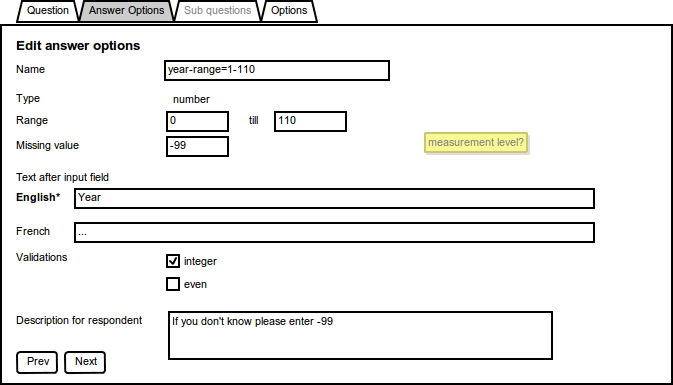
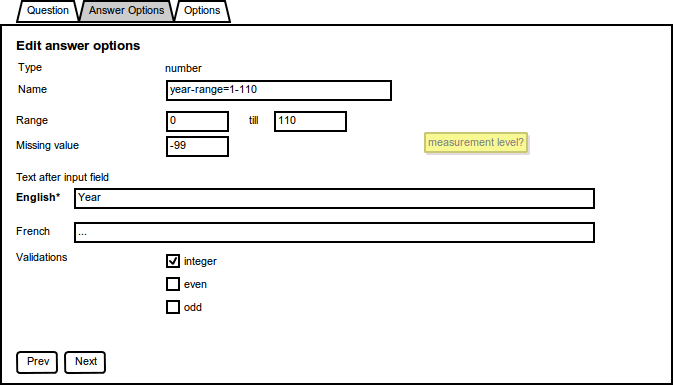
adjusted wireframes after discussion with Rolf en Liesbeth * removed likert, makes it complicated for now, possible own wizard * removed text after answer option * if edit question in preview view question-options tab

diff --git a/wireframes/index_files/story.js b/wireframes/index_files/story.js
@@ -309,7 +309,7 @@ var story = {
      ]
     },
     {
-     "page": 18,
+     "page": 17,
      "rect": [
       72,
       395,
@@ -318,7 +318,7 @@ var story = {
      ]
     },
     {
-     "page": 18,
+     "page": 17,
      "rect": [
       72,
       596,
@@ -327,7 +327,7 @@ var story = {
      ]
     },
     {
-     "page": 18,
+     "page": 17,
      "rect": [
       72,
       238,
@@ -345,6 +345,15 @@ var story = {
      ]
     },
     {
+     "page": 17,
+     "rect": [
+      28,
+      238,
+      64,
+      254
+     ]
+    },
+    {
      "page": 18,
      "rect": [
       48,
@@ -354,9 +363,27 @@ var story = {
      ]
     },
     {
+     "page": 17,
+     "rect": [
+      28,
+      395,
+      64,
+      411
+     ]
+    },
+    {
      "page": 18,
      "rect": [
       48,
+      596,
+      64,
+      612
+     ]
+    },
+    {
+     "page": 17,
+     "rect": [
+      28,
       596,
       64,
       612
@@ -715,20 +742,11 @@ var story = {
      ]
     },
     {
-     "page": 19,
+     "page": 17,
      "rect": [
       174,
       0,
-      261,
-      23
-     ]
-    },
-    {
-     "page": 17,
-     "rect": [
-      261,
-      0,
-      317,
+      230,
       23
      ]
     },
@@ -770,15 +788,6 @@ var story = {
     {
      "page": 17,
      "rect": [
-      261,
-      0,
-      317,
-      23
-     ]
-    },
-    {
-     "page": 17,
-     "rect": [
       64,
       351,
       106,
@@ -812,20 +821,11 @@ var story = {
      ]
     },
     {
-     "page": 19,
+     "page": 17,
      "rect": [
       174,
       0,
-      261,
-      23
-     ]
-    },
-    {
-     "page": 17,
-     "rect": [
-      261,
-      0,
-      317,
+      230,
       23
      ]
     },
@@ -865,21 +865,21 @@ var story = {
      ]
     },
     {
-     "page": 19,
+     "page": 17,
      "rect": [
       174,
       0,
-      261,
+      230,
       23
      ]
     },
     {
      "page": 17,
      "rect": [
-      261,
-      0,
-      317,
-      23
+      64,
+      351,
+      106,
+      374
      ]
     },
     {
@@ -892,11 +892,11 @@ var story = {
      ]
     },
     {
-     "page": 19,
+     "page": 17,
      "rect": [
       96,
       62,
-      264,
+      254,
       85
      ]
     },
@@ -905,7 +905,7 @@ var story = {
      "rect": [
       96,
       85,
-      264,
+      254,
       108
      ]
     },
@@ -914,7 +914,7 @@ var story = {
      "rect": [
       96,
       108,
-      264,
+      254,
       131
      ]
     },
@@ -923,51 +923,51 @@ var story = {
      "rect": [
       96,
       131,
-      264,
+      254,
       154
-     ]
-    },
-    {
-     "page": 17,
-     "rect": [
-      96,
-      154,
-      264,
-      177
      ]
     },
     {
      "page": 15,
      "rect": [
       96,
-      344,
-      329,
-      361
+      320,
+      307,
+      337
      ]
     },
     {
      "page": 14,
      "rect": [
       96,
-      322,
-      329,
-      345
+      298,
+      307,
+      321
      ]
     },
     {
      "page": 13,
      "rect": [
       96,
-      301,
-      329,
-      323
+      277,
+      307,
+      299
+     ]
+    },
+    {
+     "page": 17,
+     "rect": [
+      96,
+      190,
+      313,
+      245
      ]
     }
    ]
   },
   {
    "title": "tab-options",
-   "height": 385,
+   "height": 383,
    "width": 673,
    "image": "18-tab-options.png",
    "links": [
@@ -990,12 +990,12 @@ var story = {
      ]
     },
     {
-     "page": 17,
+     "page": 5,
      "rect": [
-      174,
-      0,
-      261,
-      23
+      64,
+      351,
+      110,
+      374
      ]
     },
     {
@@ -1052,20 +1052,11 @@ var story = {
      ]
     },
     {
-     "page": 19,
+     "page": 17,
      "rect": [
       174,
       0,
-      261,
-      23
-     ]
-    },
-    {
-     "page": 17,
-     "rect": [
-      261,
-      0,
-      317,
+      230,
       23
      ]
     },
